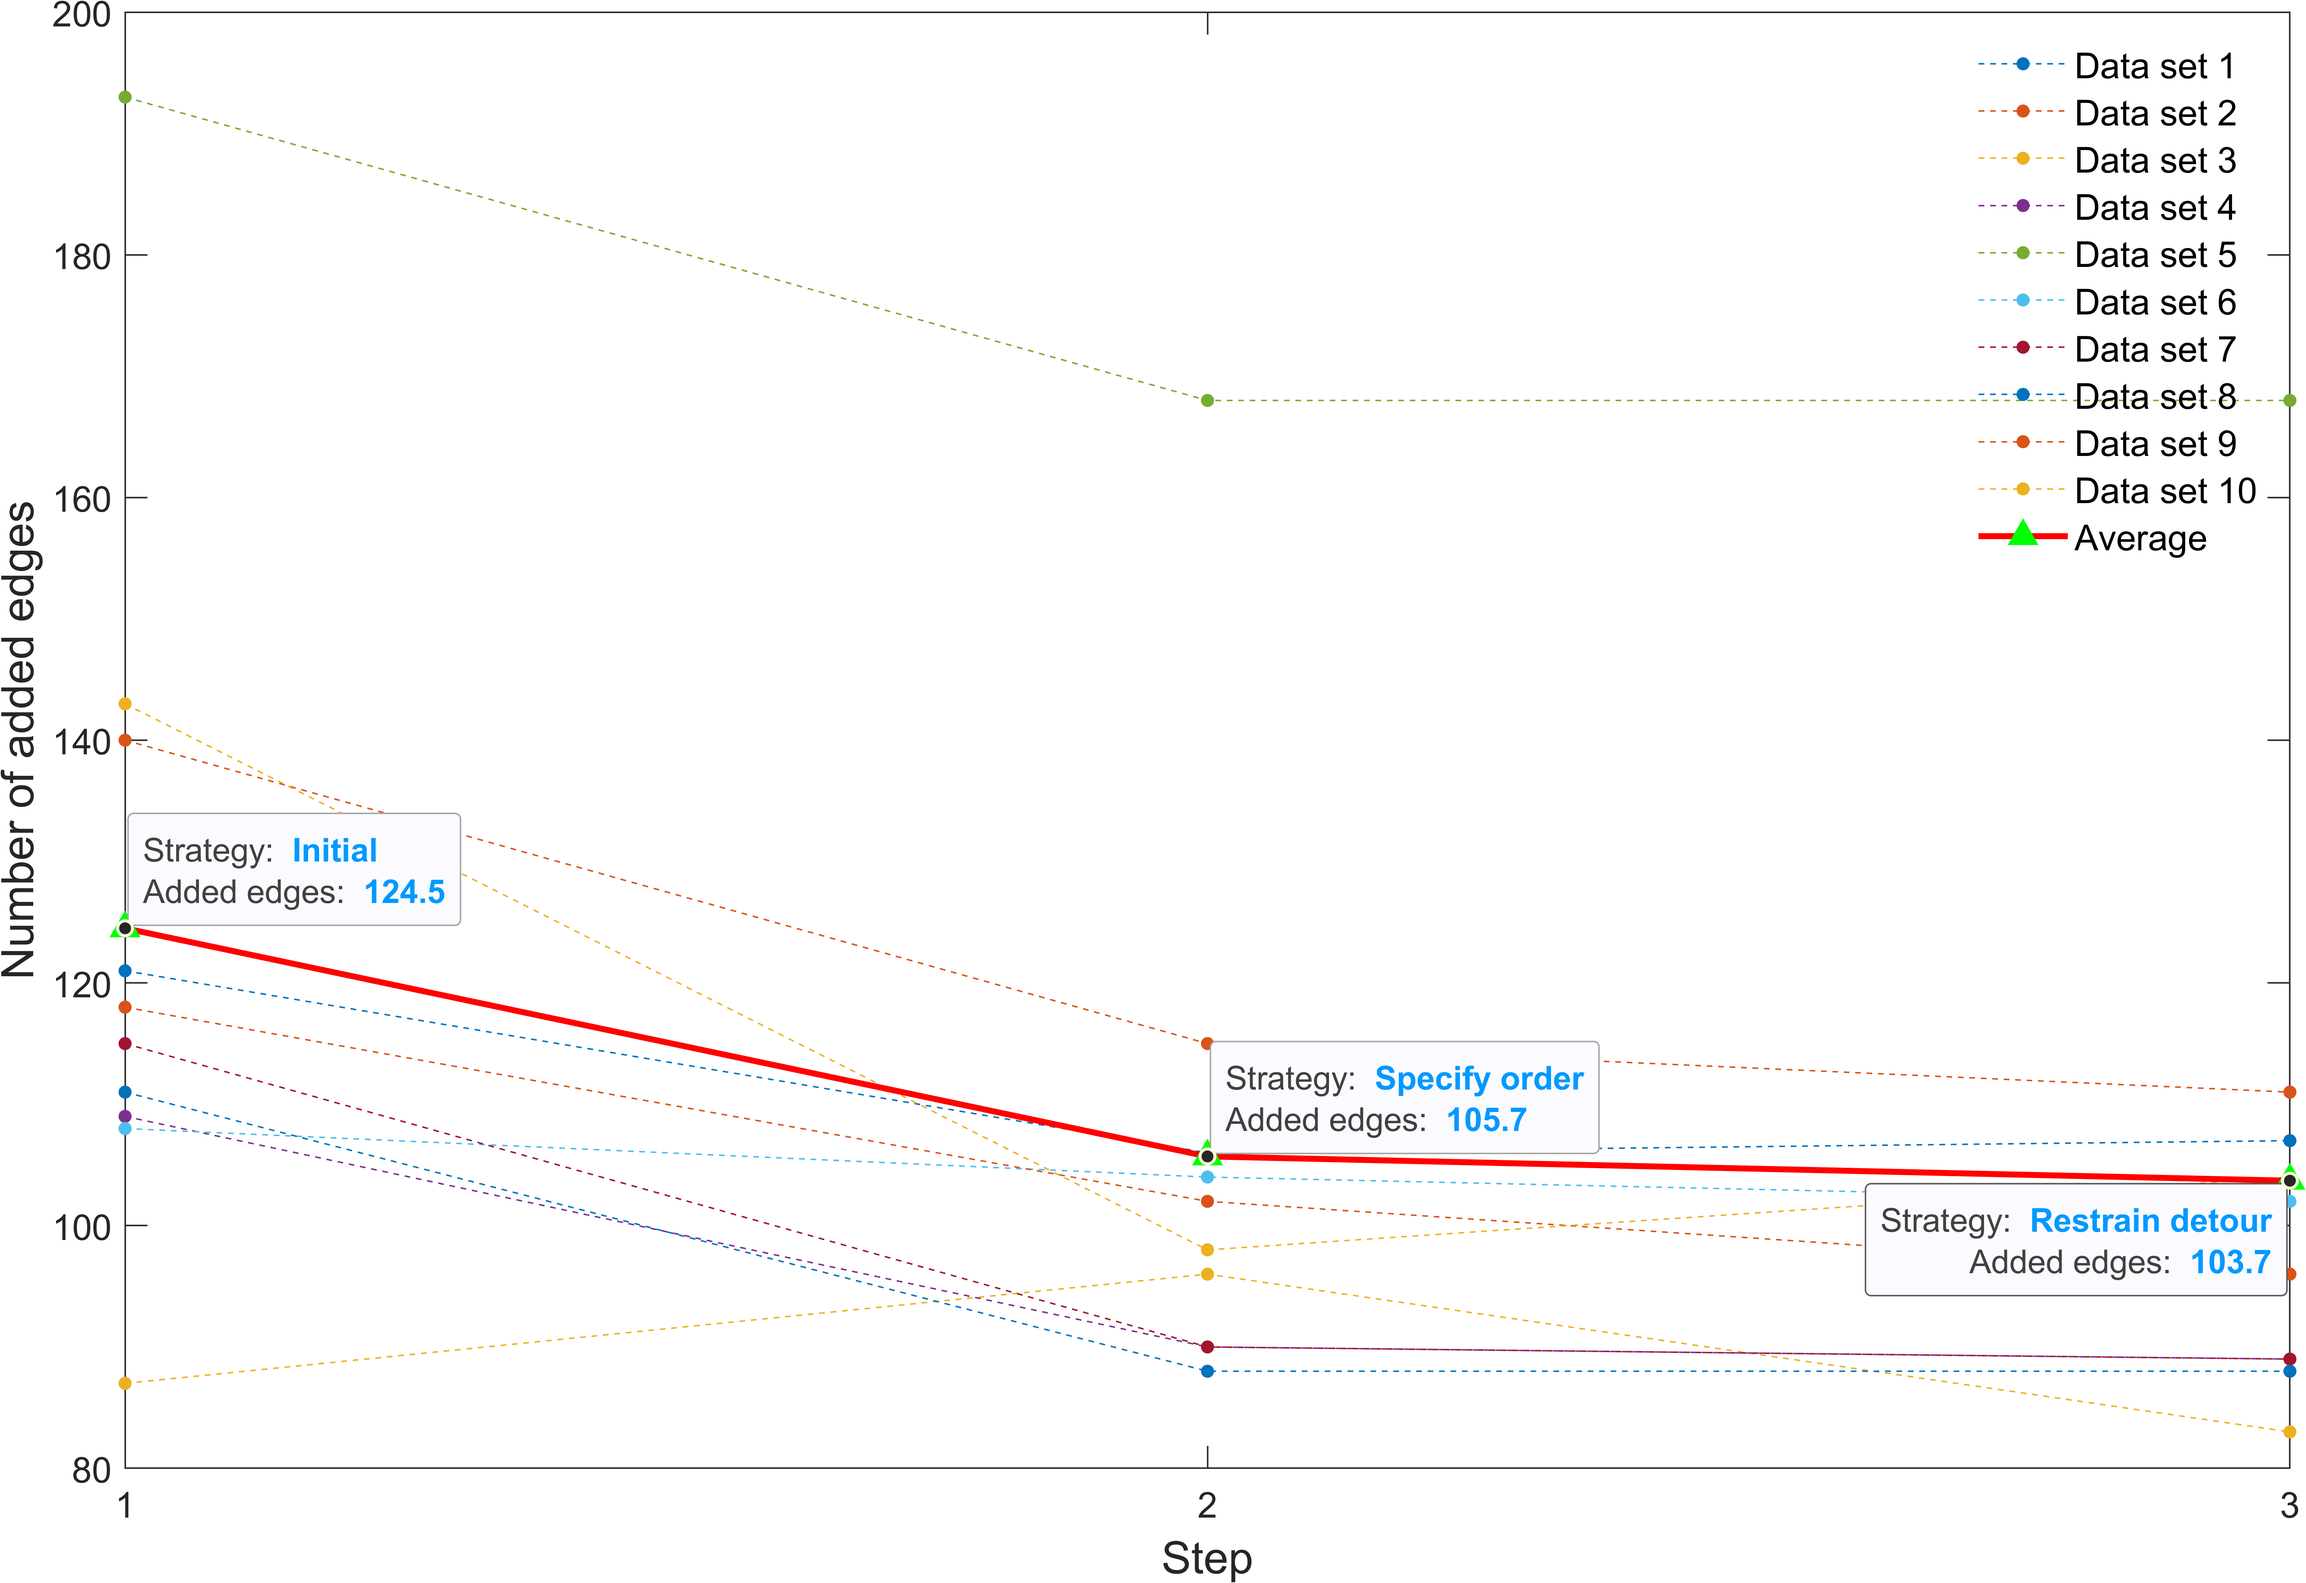
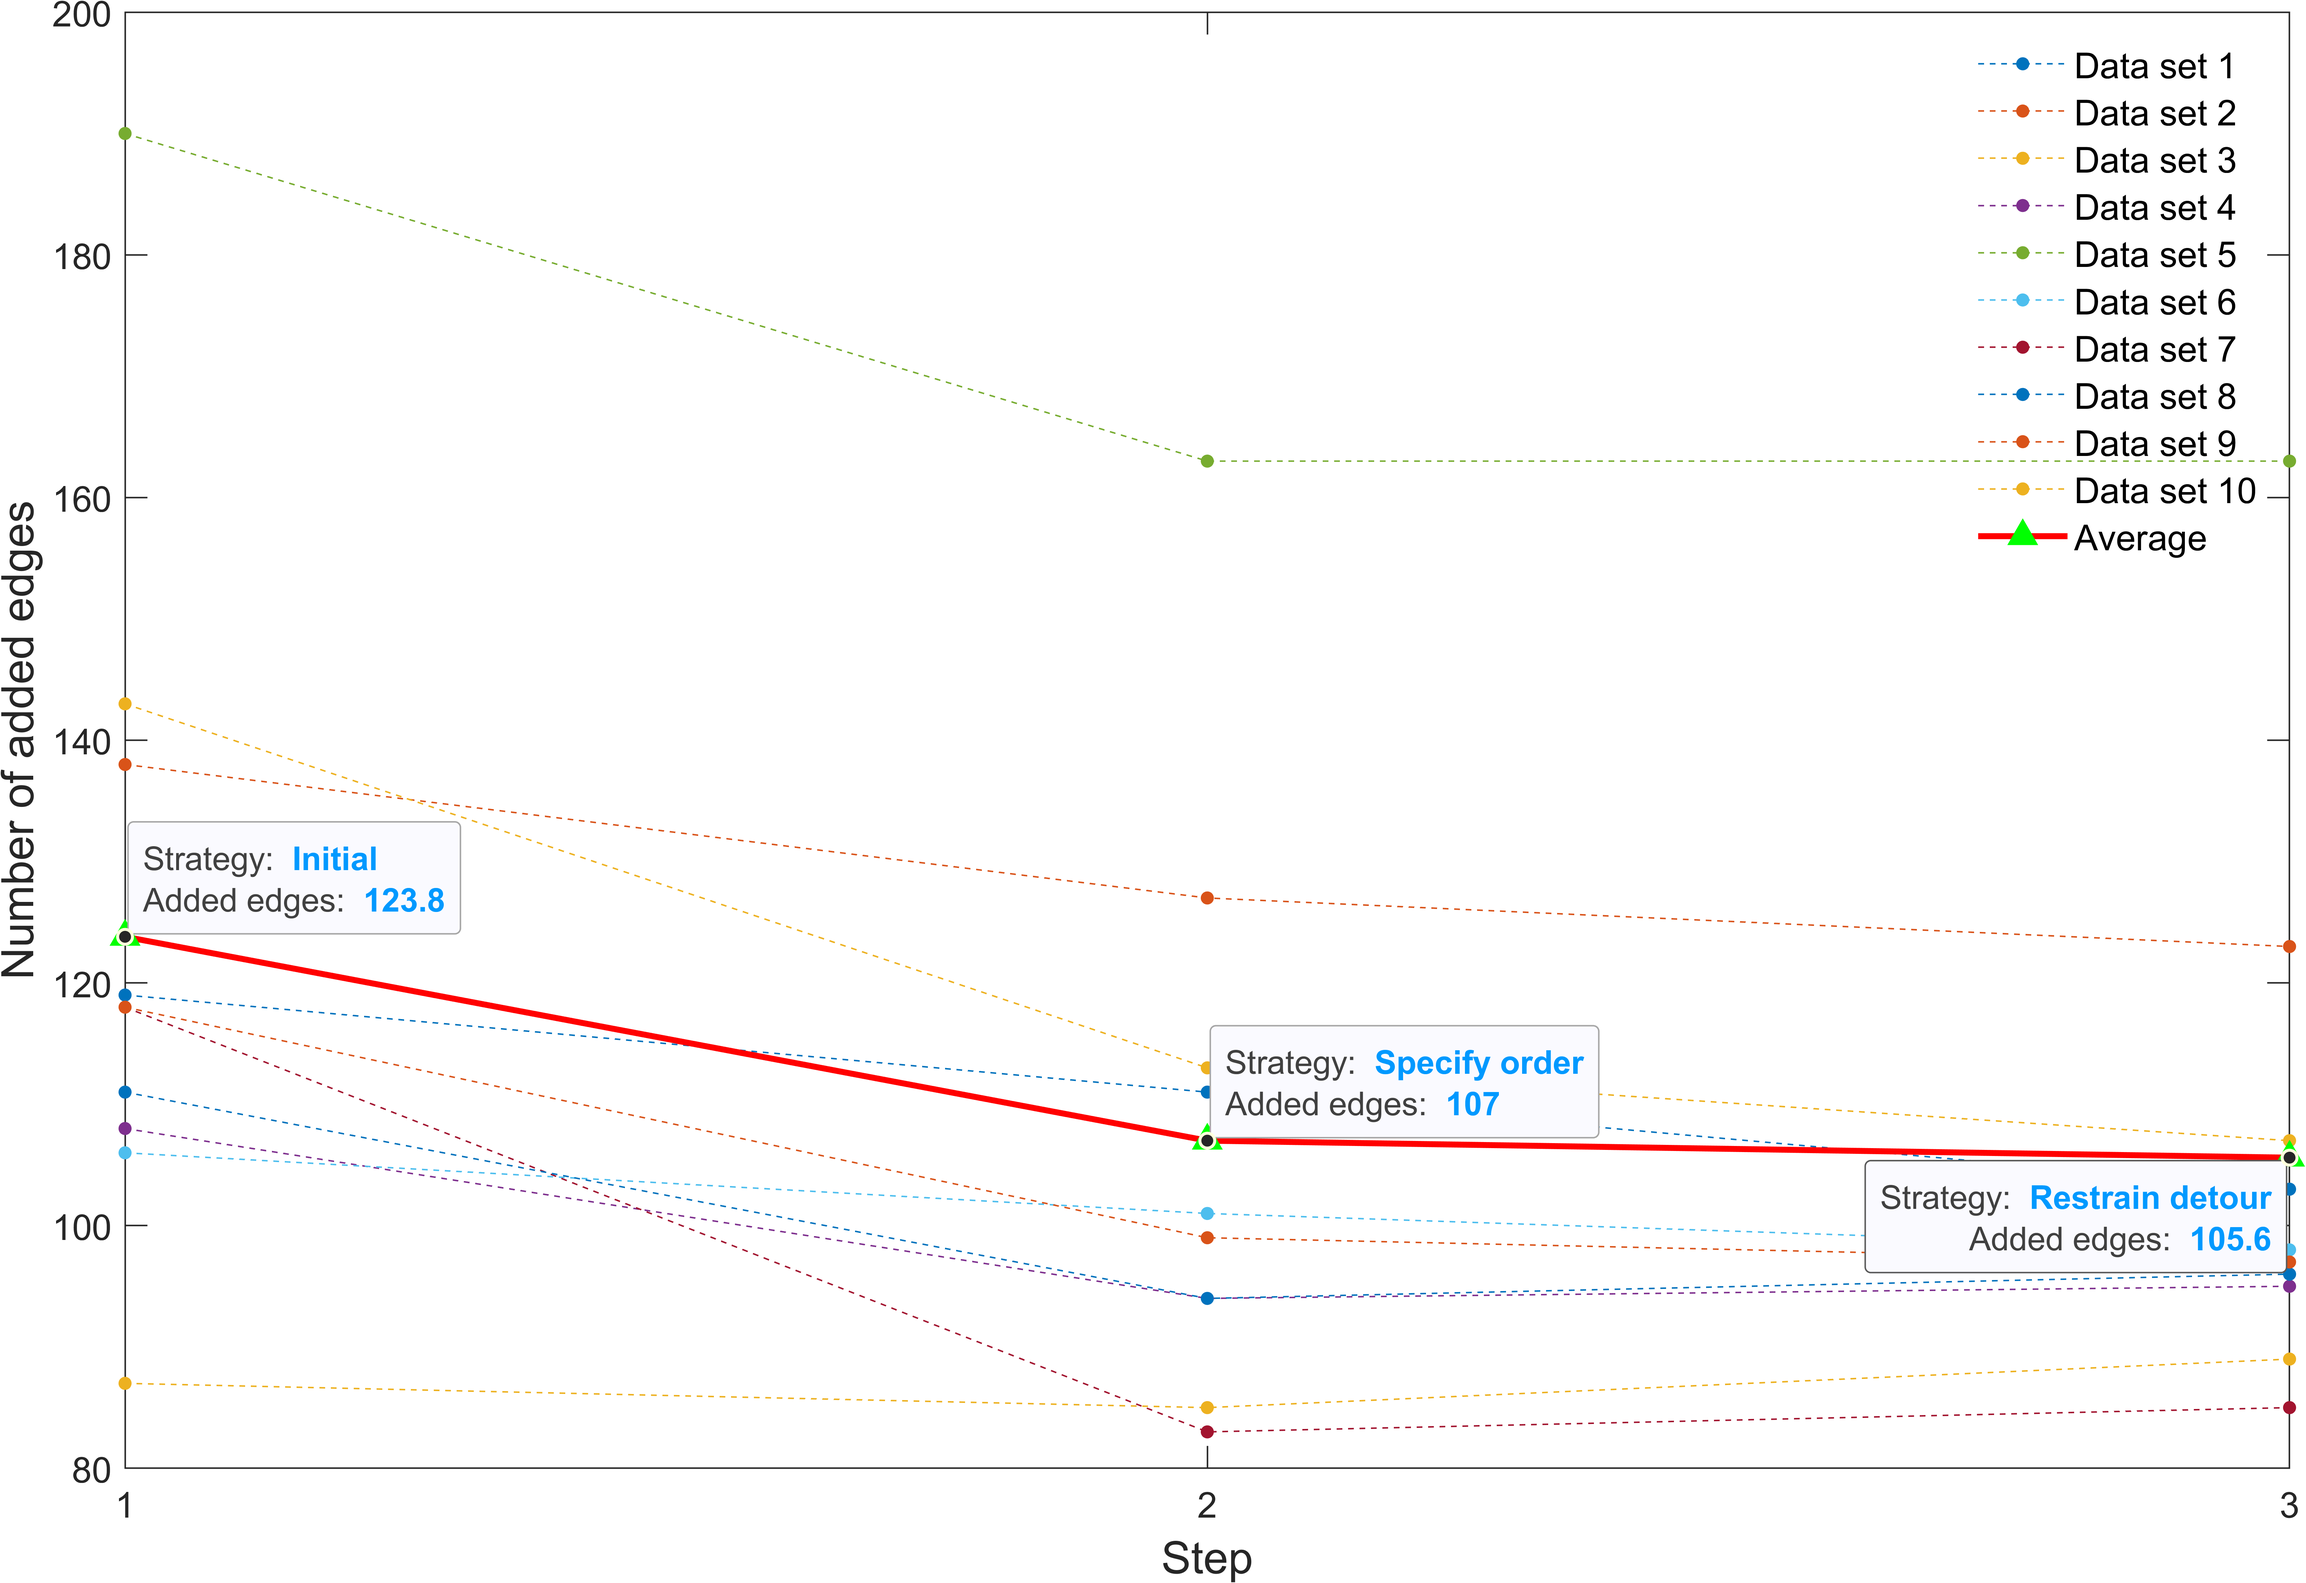
修正了业务排序函数以及在BFS_addEdge中关于tempOKPath的一个bug，然后再次出图

diff --git a/src/Solution_base.cpp b/src/Solution_base.cpp
@@ -35,14 +35,6 @@ void Solution::runStrategy()
     sortTran();             // 根据 expectedAllocationPressure 对加载业务的顺序进行排序
     resetEverything();      // 把加载光业务对网络的影响全部清除
     preAllocateTran();      // 初分配    
-    
-    if (forDoubleSortTran)
-    {
-        sumUptheAllocationPressure();     // 求和分配光业务时，每条光业务的期望分配压力
-        sortTran();             // 根据 expectedAllocationPressure 对加载业务的顺序进行排序
-        resetEverything();      // 把加载光业务对网络的影响全部清除
-        preAllocateTran();      // 初分配
-    }
 
     tryDeleteEdge();
     tryDeleteEdge();
@@ -74,6 +66,7 @@ void Solution::runStrategy()
                 std::cout << "  changeUsedEdge: " << totUsedPile - oriTotUsedEdge;
                 std::cout << "  totUsedEdge: " << totUsedPile << endl;
             }
+
     //        curTime = clock();
     //        iterationUnitTime = double(curTime - reAllocateTime) / CLOCKS_PER_SEC;
     //        leftTime = 120 - double(curTime - startTime) / CLOCKS_PER_SEC;
@@ -243,16 +236,26 @@ void Solution::sortTran()
     if (!forSortTran)
         return;
     // 根据 expectedAllocationPressure 进行排序
-    sort(sortedTranIndices.begin(), sortedTranIndices.end(), [&](int a, int b) {
-        // 匿名 lambda 函数作为比较函数
-        return [&](int a, int b) {
-            // 如果 a 和 b 满足相邻条件，则优先满足相邻条件
-            if ((trans[a].start == trans[b].start && trans[a].end == trans[b].end) || (trans[a].start == trans[b].end && trans[a].end == trans[b].start))
-                return false; // 保持相邻
-            // 否则按照 expectedAllocationPressure 进行降序排序
-            return trans[a].expectedAllocationPressure > trans[b].expectedAllocationPressure;
-            }(a, b);
-        });
+    std::sort(sortedTranIndices.begin(), sortedTranIndices.end(), [&](int a, int b) {
+        if (trans[a].path.size() != trans[b].path.size())
+            return trans[a].path.size() > trans[b].path.size();  // 首先按path.size()降序排序
+        int startA = trans[a].start, startB = trans[b].start, endA = trans[a].end, endB = trans[b].end;
+        if (startA > endA)
+        {
+            int temp = startA;
+            startA = endA;
+            endA = temp;
+        }
+        if (startB > endB)
+		{
+			int temp = startB;
+			startB = endB;
+            endB = temp;
+		}
+        if (startA != startB)
+            return startA > startB;  // 其次按start降序排序
+        return endA > endB;  // 最后按end降序排序
+    });
 }
 
 // 把加载光业务对网络的影响全部清除
@@ -302,7 +305,7 @@ void Solution::transferTranInMultiEdge(Transaction& tran)
         int lastEdgeID = multiEdgeID[nodePair][multiEdgeid];
         for (int j = multiEdgeid - 1; j >= 0; --j)
         {   // 尽可能把业务迁移到重边编号小的边上
-            int edgeID = multiEdgeID[nodePair][0];
+            int edgeID = multiEdgeID[nodePair][j];
             if (edge[edgeID].Pile[tran.pileID] == -1)
             {
                 edge[edgeID].Pile[tran.pileID] = tran.tranID;

diff --git a/src/Solution_BFS.cpp b/src/Solution_BFS.cpp
@@ -86,7 +86,6 @@ void Solution::BFS_loadTran(Transaction& tran, bool ifTryDeleteEdge)
 
     tran.pileID = choosenP;
     backtrackPath(tran);     // 回溯路径，以构造出一条完整的路径
-    transferTranInMultiEdge(tran);
 }
 
 // 考虑一边多通道的情况下，寻找业务tran的起点到终点的路径，但遇到需要加边的情况，不做处理，直接返回，仅tryDeletegeEdge时使用
@@ -201,6 +200,7 @@ void Solution::BFS_addNewEdge(Transaction& tran)
                 nodes.emplace(to, curDis + 1);
         }
     }
+    
     vector<vector<pair<int, int>>> nodeEdgePair(P);
     for (int p = 0; p < P; ++p)
     {
@@ -220,15 +220,9 @@ void Solution::BFS_addNewEdge(Transaction& tran)
                     if (edge[multiEdgeId].Pile[p] == -1)
                     {   // 这条重边在p通道上没有被占用，则把它更新为最短路径上的边
                         if (edge[multiEdgeId].from == from && edge[multiEdgeId].to == to)
-                        {
-                            tmpOKPath[curNode] = multiEdgeId;
                             nodeEdgePair[p].emplace_back(curNode, multiEdgeId);
-                        }
                         else
-                        {
-                            tmpOKPath[curNode] = multiEdgeId + 1;
                             nodeEdgePair[p].emplace_back(curNode, multiEdgeId + 1);
-                        }
                         break;
                     }
                 }
@@ -237,8 +231,6 @@ void Solution::BFS_addNewEdge(Transaction& tran)
             }
                 
             curNode = edge[edgeID].from;
-            if (curNode == -1)
-                int a = 1;
         }
 
         if (tmpBlockEdgeCnt < minBlockEdgeCnt)
@@ -282,7 +274,7 @@ void Solution::BFS_addNewEdge(Transaction& tran)
             }
         }
         else 
-        {      // 需要加边
+        {   // 需要加边
             addEdge(edge[edgeID].from, edge[edgeID].to, minDist[make_pair(edge[edgeID].from, edge[edgeID].to)]);
             addEdge(edge[edgeID].to, edge[edgeID].from, minDist[make_pair(edge[edgeID].to, edge[edgeID].from)]);
 
@@ -301,7 +293,6 @@ void Solution::BFS_addNewEdge(Transaction& tran)
         }
 
     }
-    transferTranInMultiEdge(tran);
     std::reverse(tran.path.begin(), tran.path.end());
 }
 
@@ -361,4 +352,5 @@ void Solution::BFS_tranStatistic(Transaction& tran)
     }
     minPathSize[make_pair(start, end)] = tran.path.size();
     minTotUsedPile += tran.path.size();
+    tran.minPathSize = tran.path.size();
 }

diff --git a/src/Solution.h b/src/Solution.h
@@ -37,17 +37,15 @@ public:
 	//bool forTryDeleteEdge = false;	// 是否尝试删除边
 	//bool forIter = false;			// 是否使用迭代策略
 	//bool forBatchTranReAllocate = false;		// 是否批量重新分配业务
-	//bool forDoubleSortTran = false;		// 是否对加载业务进行二次排序	
 
 	bool forSortTran = true;		// 是否对加载业务进行排序
 	bool forNoDetour = true;		// 是否禁止绕行，即是否使用pathSizeLimRatio参数
 	bool forTryDeleteEdge = true;	// 是否尝试删除边
 	bool forIter = true;			// 是否使用迭代策略
 	bool forBatchTranReAllocate = true;		// 是否批量重新分配业务
-	bool forDoubleSortTran = false;		// 是否对加载业务进行二次排序
 
 	float pathSizeLimRatio = 3.0;			// 限制找到的路径长度相对于理论上的最短路径长度的倍数
-	int cntLimit = 600;					// 大迭代次数限制
+	int cntLimit = 500;					// 大迭代次数限制
 	float reAllocateRatio = 0.05;		// 重新分配的业务占全体业务的比例
 	int iterCnter = 0;					// 小迭代次数
 	int iterCnterLimit = 0;			// 小迭代次数限制

diff --git a/src/Solution_deleteEdge.cpp b/src/Solution_deleteEdge.cpp
@@ -24,7 +24,7 @@ void Solution::tryDeleteEdge(bool increasing, bool ifSimDeleteEdge)
         vector<int> lastTranIDs, lastPileIDs;        // 存储将要被删除的边上承载的业务ID和通道ID
 
         for (int j = 0; j < P; ++j)
-            if (edge[trueEdgeID].Pile[j] != -1 && edge[trueEdgeID].Pile[j] != T)
+            if (edge[trueEdgeID].Pile[j] != -1)
             {   // 说明在通道j上承载了该业务
                 ++tranCnt;
                 lastTranIDs.push_back(edge[trueEdgeID].Pile[j]);

diff --git a/src/Solution_reallocate.cpp b/src/Solution_reallocate.cpp
@@ -126,8 +126,10 @@ void Solution::getReallocatedTranID(vector<int>& totTranIDx, vector<int>& tranID
  //       if (extraEdgeNum == 0)
  //           tranIDx[j++] = totTranIDx[cnter];
  //   }
-    for (int j = 0; j < gap; ++j)
+    int j = 0;
+    for (; j < gap; ++j)
     {
+        //if (trans[totTranIDx[j]].path.size() == trans[totTranIDx[j]].minPathSize)
         tranIDx[j] = totTranIDx[j];
     }
 }

diff --git a/src/global_struct.h b/src/global_struct.h
@@ -56,6 +56,7 @@ public:
     vector<int> lastEdgesOfShortestPaths;   // 存储从起点到其它点的最短路径的末边的编号（考虑通道堵塞的最短）
     vector<int> path;   // 存储路径所经过的边
     vector<int> mutiplierID;    // 存储所经过的放大器所在节点的编号
+    int minPathSize = 0;    // 存储最短路径的长度
 };
 
 struct HashFunc_t

diff --git a/MATLAB/plotNewEdgeCntRecord.m b/MATLAB/plotNewEdgeCntRecord.m
@@ -1,6 +1,6 @@
 function [f_newEdgeCntRecord] = plotNewEdgeCntRecord()
     load newEdgeCntRecord.mat newEdgeCntRecord
-    % load totUsedPileCntRecord.mat
+    % load totUsedPileCntRecord.mat totUsedPileCntRecord
     n_step = size(newEdgeCntRecord, 2);
     for step = 1 : n_step
         f_newEdgeCntRecord = figure("Name", "newEdgeCntRecord");

diff --git a/src/main.cpp b/src/main.cpp
@@ -25,8 +25,6 @@ int main(int argc, char* argv[])
     solution.forIter = atoi(argv[4]);
     solution.forBatchTranReAllocate = atoi(argv[5]);
     dataGenSeed = string(argv[6]);
-    // 
-    //solution.forDoubleSortTran = atoi(argv[6]);
 
     solution.runStrategy();     // 运行总策略
 
